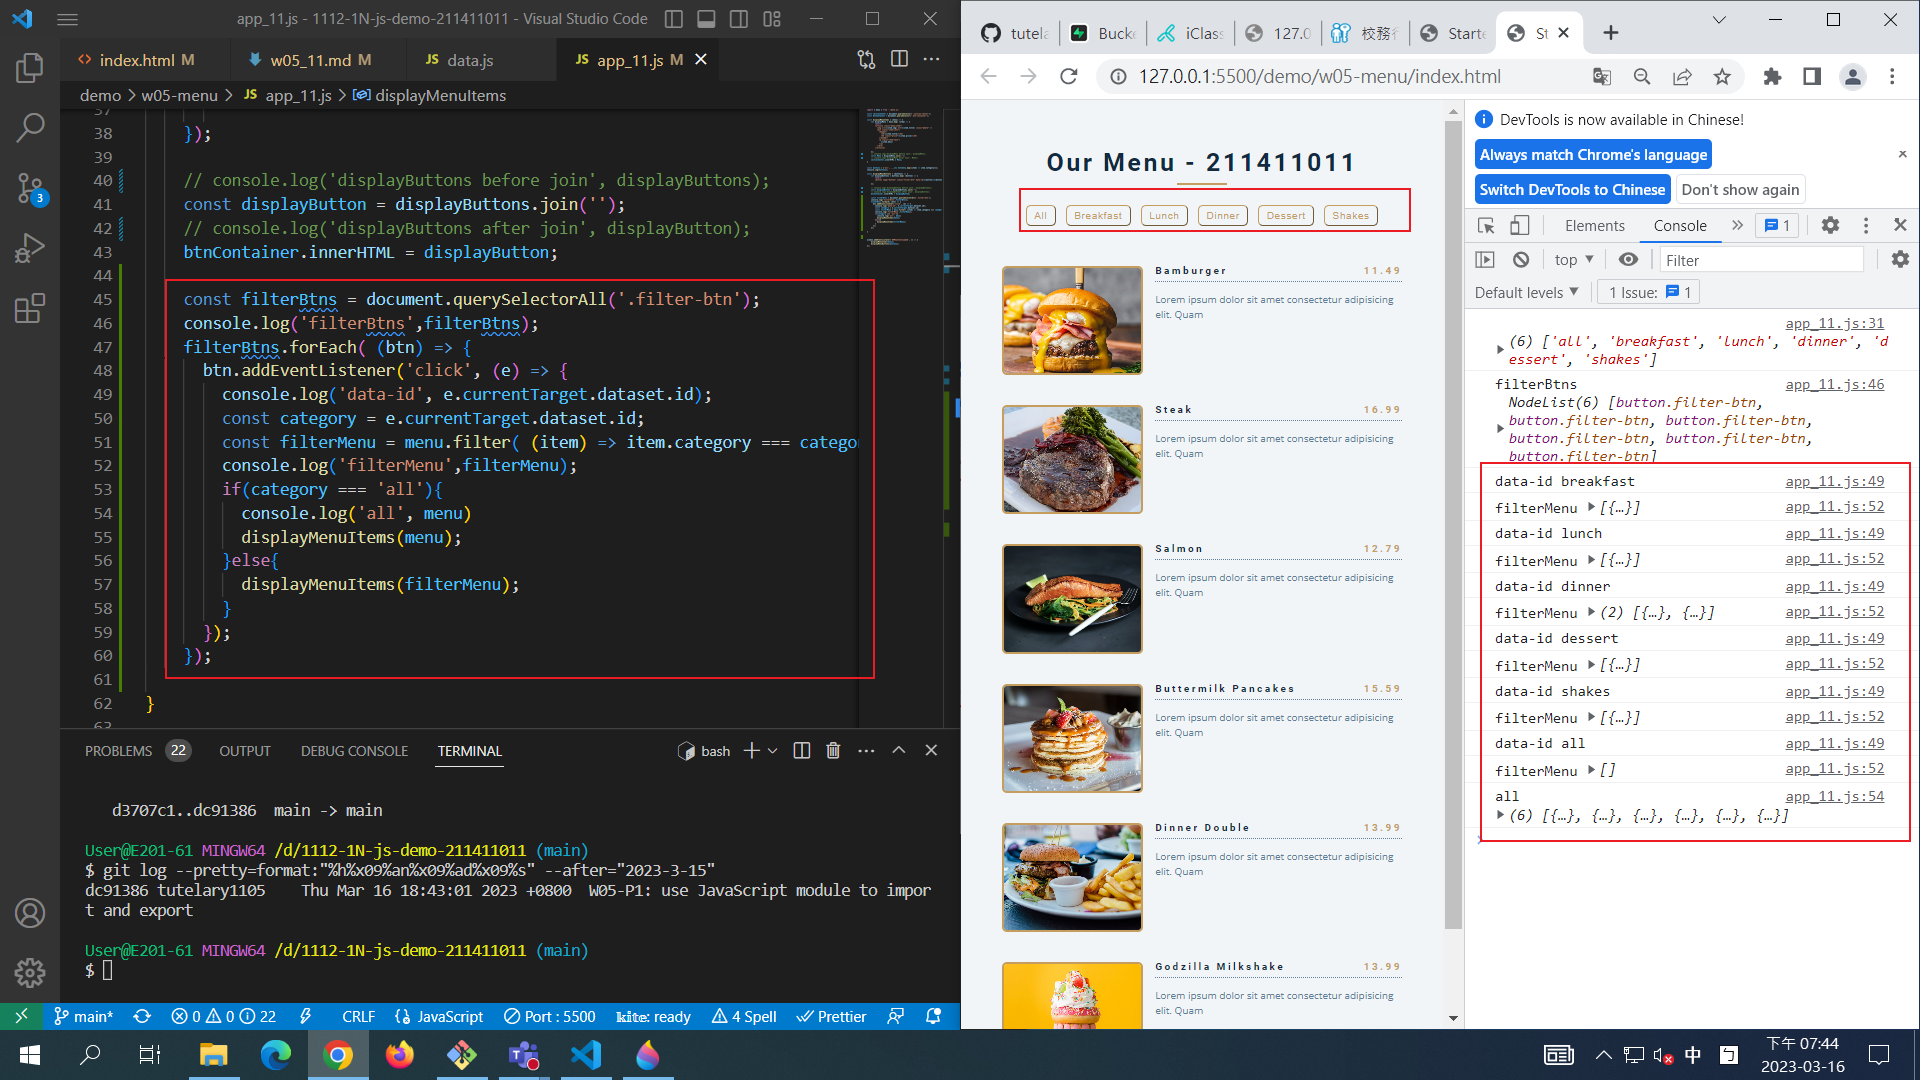
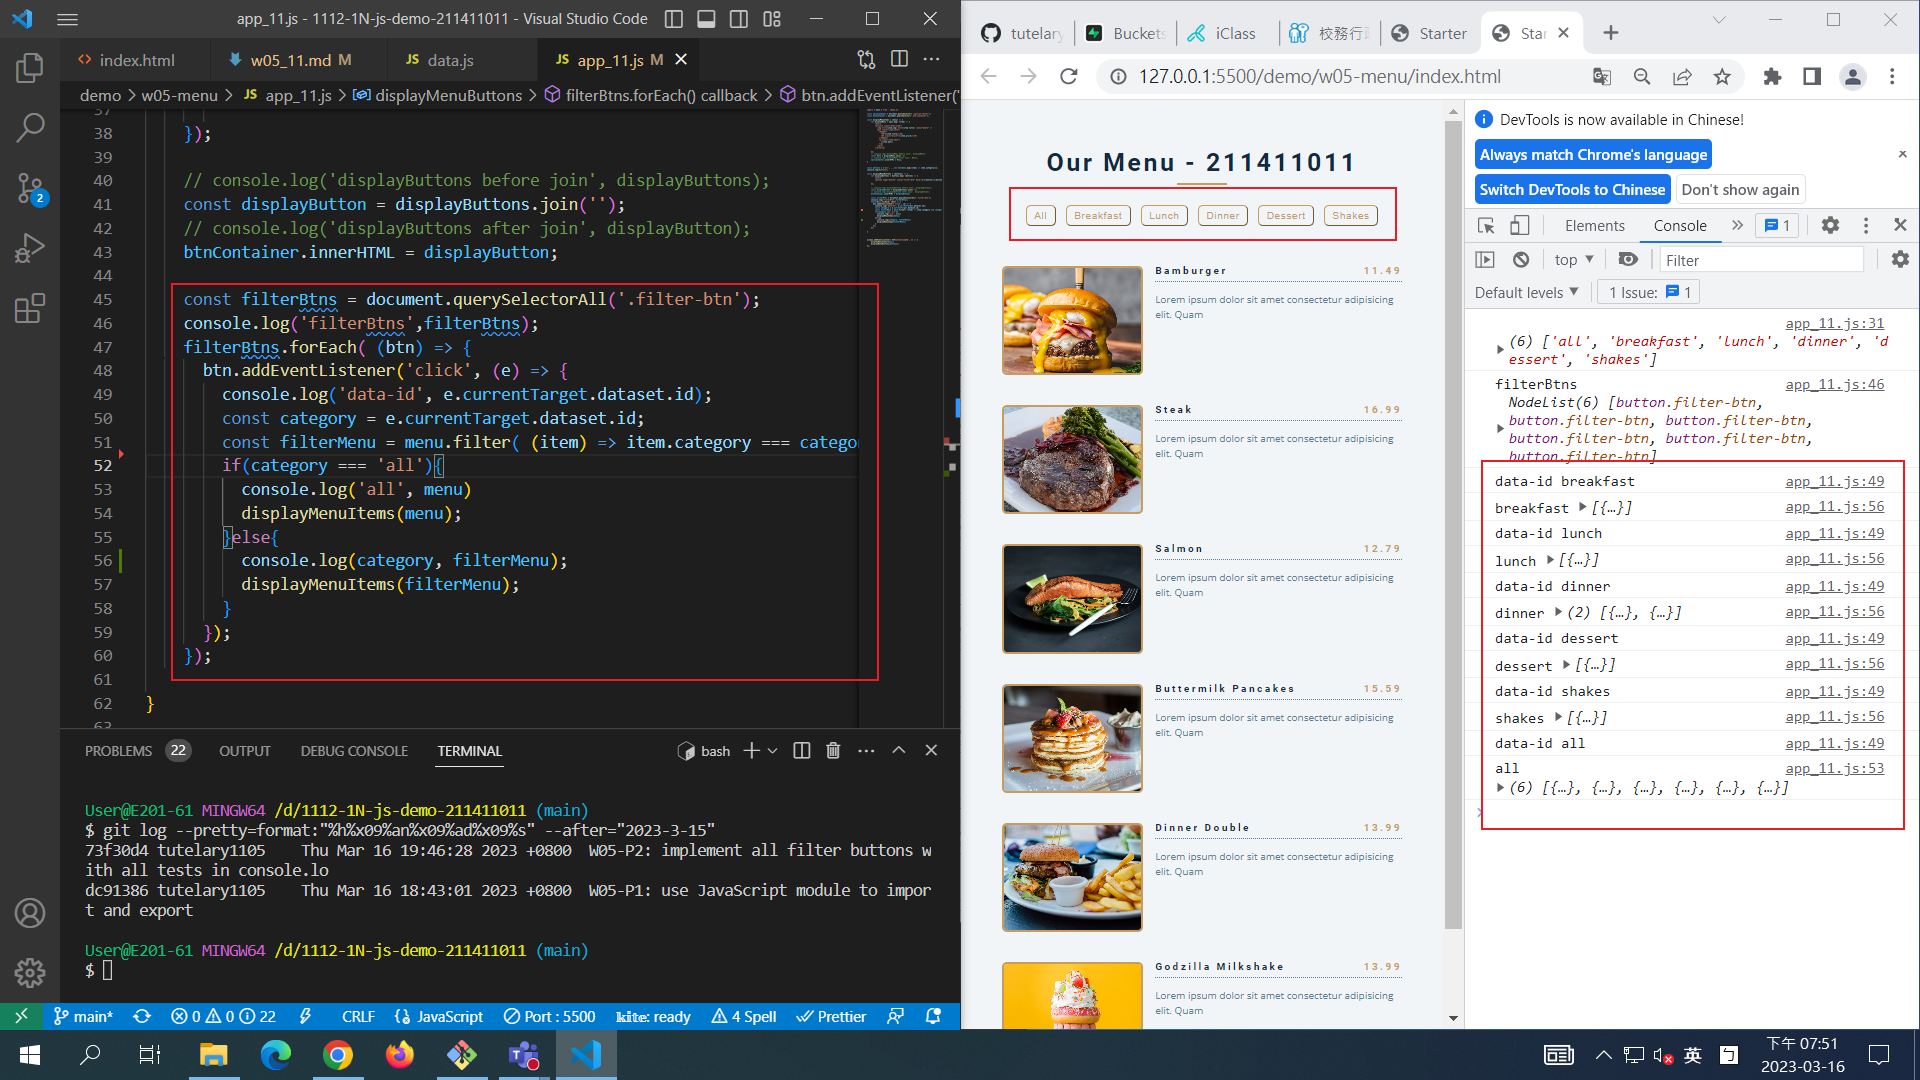
W05-P3: show modal and overlay when pressing a button

diff --git a/demo/w05-modal/index.html b/demo/w05-modal/index.html
@@ -1,0 +1,59 @@
+<!DOCTYPE html>
+<html lang="en">
+  <head>
+    <meta charset="UTF-8" />
+    <meta name="viewport" content="width=device-width, initial-scale=1.0" />
+    <meta http-equiv="X-UA-Compatible" content="ie=edge" />
+    <link rel="stylesheet" href="style_11.css" />
+    <title>Modal window</title>
+  </head>
+  <body>
+    <button class="show-modal modal-1">Show modal 1</button>
+    <button class="show-modal modal-2">Show modal 2</button>
+    <button class="show-modal modal-3">Show modal 3</button>
+
+    <div class="modal modal-1 hidden">
+      <button class="close-modal">&times;</button>
+      <h1>I'm a modal window 😍</h1>
+      <p>
+        Lorem ipsum dolor sit amet, consectetur adipisicing elit, sed do eiusmod
+        tempor incididunt ut labore et dolore magna aliqua. Ut enim ad minim
+        veniam, quis nostrud exercitation ullamco laboris nisi ut aliquip ex ea
+        commodo consequat. Duis aute irure dolor in reprehenderit in voluptate
+        velit esse cillum dolore eu fugiat nulla pariatur. Excepteur sint
+        occaecat cupidatat non proident, sunt in culpa qui officia deserunt
+        mollit anim id est laborum.
+      </p>
+    </div>
+    <div class="modal modal-2 hidden">
+      <button class="close-modal">&times;</button>
+      <h1>I'm a modal window 😍</h1>
+      <p>
+        Lorem ipsum dolor sit amet, consectetur adipisicing elit, sed do eiusmod
+        tempor incididunt ut labore et dolore magna aliqua. Ut enim ad minim
+        veniam, quis nostrud exercitation ullamco laboris nisi ut aliquip ex ea
+        commodo consequat. Duis aute irure dolor in reprehenderit in voluptate
+        velit esse cillum dolore eu fugiat nulla pariatur. Excepteur sint
+        occaecat cupidatat non proident, sunt in culpa qui officia deserunt
+        mollit anim id est laborum.
+      </p>
+    </div>
+    <div class="modal modal-3  hidden">
+      <button class="close-modal">&times;</button>
+      <h1>I'm a modal window 😍</h1>
+      <p>
+        Lorem ipsum dolor sit amet, consectetur adipisicing elit, sed do eiusmod
+        tempor incididunt ut labore et dolore magna aliqua. Ut enim ad minim
+        veniam, quis nostrud exercitation ullamco laboris nisi ut aliquip ex ea
+        commodo consequat. Duis aute irure dolor in reprehenderit in voluptate
+        velit esse cillum dolore eu fugiat nulla pariatur. Excepteur sint
+        occaecat cupidatat non proident, sunt in culpa qui officia deserunt
+        mollit anim id est laborum.
+      </p>
+    </div>
+    <div class="overlay hidden"></div>
+    
+
+    <script src="script_11.js"></script>
+  </body>
+</html>

diff --git a/demo/w05-modal/style_11.css b/demo/w05-modal/style_11.css
@@ -1,0 +1,85 @@
+* {
+  margin: 0;
+  padding: 0;
+  box-sizing: inherit;
+}
+
+html {
+  font-size: 62.5%;
+  box-sizing: border-box;
+}
+
+body {
+  font-family: sans-serif;
+  color: #333;
+  line-height: 1.5;
+  height: 100vh;
+  position: relative;
+  display: flex;
+  align-items: flex-start;
+  justify-content: center;
+  background: linear-gradient(to top left, #28b487, #7dd56f);
+}
+
+.show-modal {
+  font-size: 2rem;
+  font-weight: 600;
+  padding: 1.75rem 3.5rem;
+  margin: 5rem 2rem;
+  border: none;
+  background-color: #fff;
+  color: #444;
+  border-radius: 10rem;
+  cursor: pointer;
+}
+
+.close-modal {
+  position: absolute;
+  top: 1.2rem;
+  right: 2rem;
+  font-size: 5rem;
+  color: #333;
+  cursor: pointer;
+  border: none;
+  background: none;
+}
+
+h1 {
+  font-size: 2.5rem;
+  margin-bottom: 2rem;
+}
+
+p {
+  font-size: 1.8rem;
+}
+
+/* -------------------------- */
+/* CLASSES TO MAKE MODAL WORK */
+.hidden {
+  display: none;
+}
+
+.modal {
+  position: absolute;
+  top: 50%;
+  left: 50%;
+  transform: translate(-50%, -50%);
+  width: 70%;
+
+  background-color: white;
+  padding: 6rem;
+  border-radius: 5px;
+  box-shadow: 0 3rem 5rem rgba(0, 0, 0, 0.3);
+  z-index: 10;
+}
+
+.overlay {
+  position: absolute;
+  top: 0;
+  left: 0;
+  width: 100%;
+  height: 100%;
+  background-color: rgba(0, 0, 0, 0.6);
+  backdrop-filter: blur(3px);
+  z-index: 5;
+}

diff --git a/demo/w05-modal/script_11.js b/demo/w05-modal/script_11.js
@@ -1,0 +1,24 @@
+'use strict';
+
+const modal = document.querySelector('.modal');
+const overlay = document.querySelector('.overlay');
+const btnCloseModal = document.querySelector('.close-modal');
+const btnsOpenModal = document.querySelectorAll('.show-modal');
+console.log('modal', modal);
+console.log('show-modal', btnsOpenModal);
+
+
+const openModal = (index) => {
+    modal.classList.remove('hidden');
+    overlay.classList.remove('hidden');
+}
+
+for(let i=0; i<btnsOpenModal.length; i++) {
+    btnsOpenModal[i].addEventListener('click', openModal);
+}
+
+document.addEventListener('keydown', (e) => {
+    if (e.key === 'ESCAPE' && !modal.classList.contains('hidden')) {
+        closeModal();
+    }
+});

diff --git a/demo/w05-menu/app_11.js b/demo/w05-menu/app_11.js
@@ -49,11 +49,11 @@ const displayMenuButtons = (buttons) => {
         console.log('data-id', e.currentTarget.dataset.id);
         const category = e.currentTarget.dataset.id;
         const filterMenu = menu.filter( (item) => item.category === category);
-        console.log('filterMenu',filterMenu);
         if(category === 'all'){
           console.log('all', menu)
           displayMenuItems(menu);
         }else{
+          console.log(category, filterMenu);
           displayMenuItems(filterMenu);
         }
       });

diff --git a/demo/md/w05/w05_11.md b/demo/md/w05/w05_11.md
@@ -13,17 +13,15 @@ dc91386 tutelary1105    Thu Mar 16 18:43:01 2023 +0800  W05-P1: use JavaScript m
 ![w05-p2.png](https://izfkkkxjvqncdvyzzpkv.supabase.co/storage/v1/object/public/demo-11/md_1N_img/w05-p2.png)
 
 ```
-c35ffc2 tutelary1105    Thu Mar 9 19:59:03 2023 +0800   W04-P2: show all data in array menu into html (section-center)
+73f30d4 tutelary1105    Thu Mar 16 19:46:28 2023 +0800  W05-P2: implement all filter buttons with all tests in console.lo
 ```
 
-### W04-P3: show all filter buttons into html (section-center)including (all, breakfast, lunch, dinner, shakes)
+### W05-P3: show modal and overlay when pressing a button
 
-![w04-p3-1.png](https://izfkkkxjvqncdvyzzpkv.supabase.co/storage/v1/object/public/demo-11/md_1N_img/w04-p3-1.png)
-
-![w04-p3-2.png](https://izfkkkxjvqncdvyzzpkv.supabase.co/storage/v1/object/public/demo-11/md_1N_img/w04-p3-2.png)
+![w05-p3.png](https://izfkkkxjvqncdvyzzpkv.supabase.co/storage/v1/object/public/demo-11/md_1N_img/w05-p3.png)
 
 ```
-75c959b tutelary1105    Thu Mar 9 20:55:49 2023 +0800   W04-P3: show all filter buttons into html (section-center)including (all, breakfast, lunch, dinner, shakes)
+
 ```
 
 ### W04-P4: get buttons from menu array, add 'all' at the beginning (section-center)
